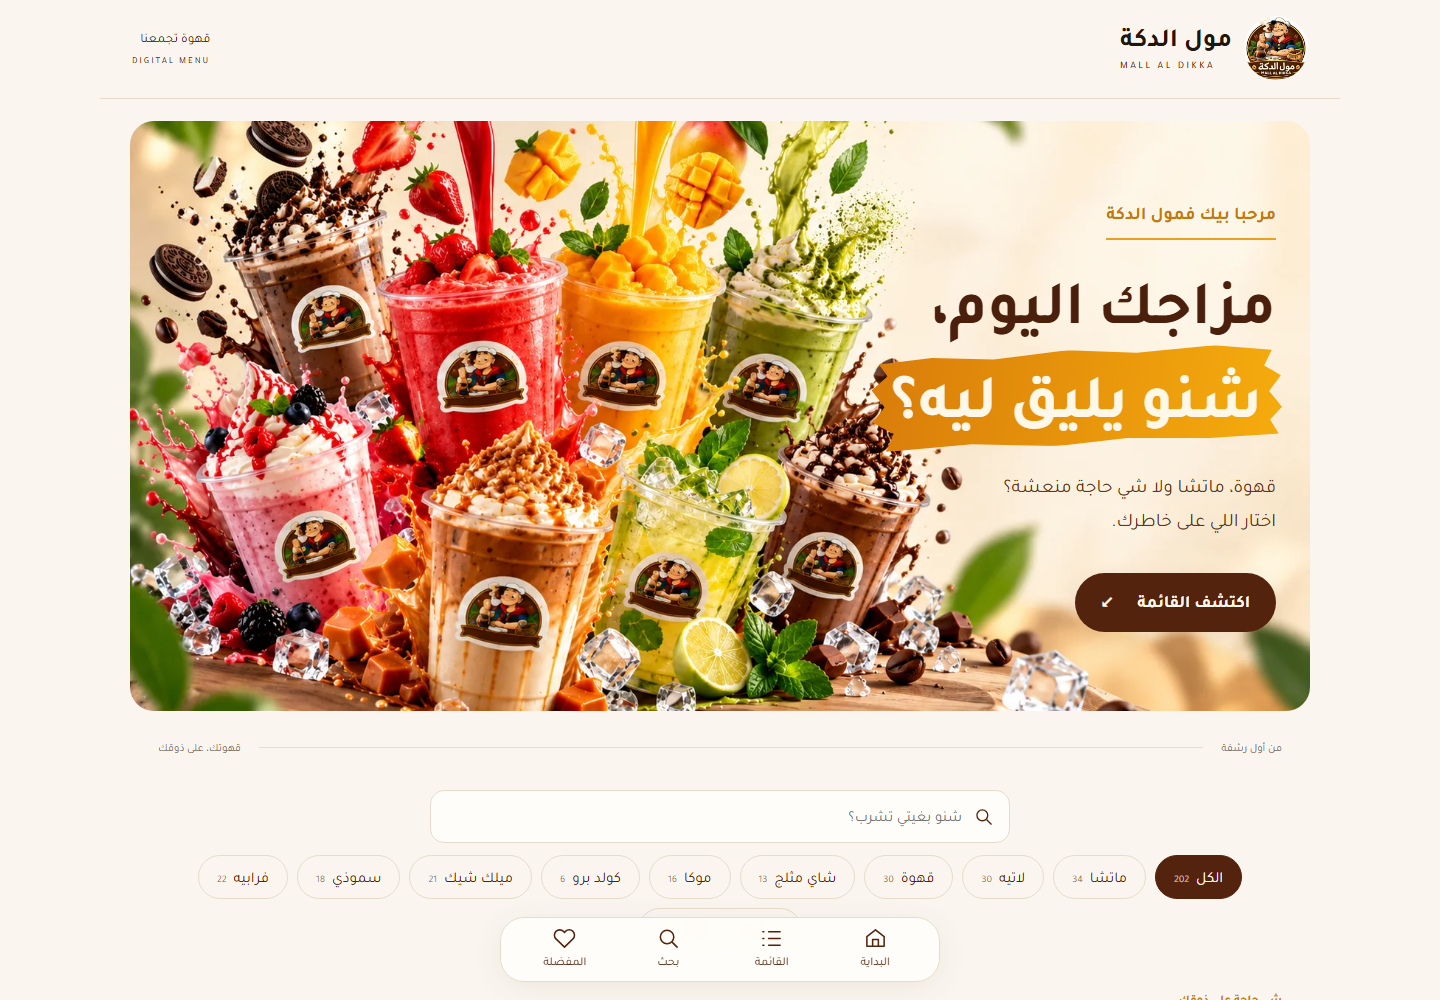
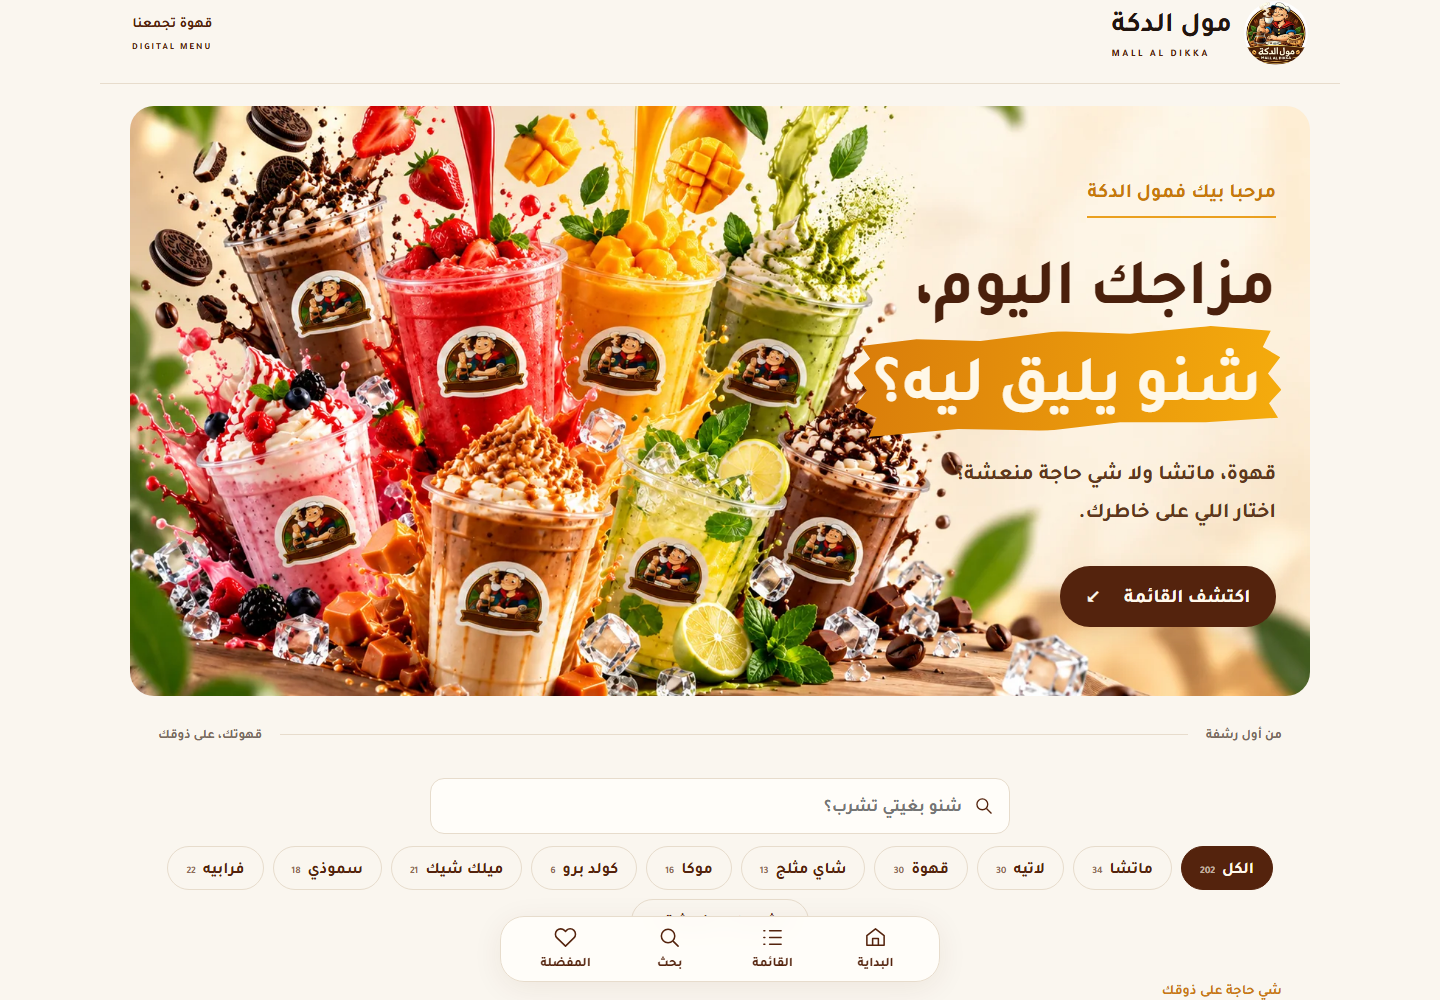
gras texte

diff --git a/css/style.css b/css/style.css
@@ -41,3 +41,20 @@ html{scroll-padding-top:130px}.header{padding:12px 16px;min-height:76px}.brand{g
 .welcome-flavors .explore{padding:16px 26px;min-height:56px;font-size:17px;font-weight:700;gap:24px;background:#54230d;box-shadow:0 8px 22px #54230d18}
 @media(max-width:850px) and (min-width:601px){.welcome-flavors{min-height:460px;margin-inline:-28px;padding:28px 22px}.welcome-flavors .welcome-copy{width:41%}.welcome-flavors h1{font-size:38px}.welcome-flavors p{font-size:16px}.welcome-flavors .eyebrow{font-size:15px}}
 @media(max-width:600px){.welcome-flavors{display:block;min-height:650px;margin:12px -14px 22px;padding:28px 20px 340px;border-radius:18px;background-image:linear-gradient(to bottom,#fff3df 0%,#fff3df 42%,transparent 57%),url('../assets/generated/hero-flavors-mobile.webp');background-size:100% 100%,auto 360px;background-position:center,left bottom;background-repeat:no-repeat}.welcome-flavors .welcome-copy{width:100%;padding:0;text-align:center}.welcome-flavors .eyebrow{font-size:14px;padding-bottom:7px}.welcome-flavors h1{font-size:clamp(35px,10vw,45px);line-height:1.16;margin:16px 0;letter-spacing:-.8px}.welcome-flavors h1 em{padding:8px 16px;margin-top:6px}.welcome-flavors p{font-size:15px;line-height:1.7;margin:17px 0 12px}.welcome-flavors .explore{font-size:14px;padding:12px 22px;min-height:46px;margin-top:0}}
+
+/* Stronger, more legible Arabic typography across the menu. */
+body{font-weight:700}
+.header-note{font-size:14px}.brand strong{font-size:28px}
+.eyebrow{font-size:14px}.intro-line{font-size:13px}
+input{font-size:17px;font-weight:700}.chip{font-size:16px;font-weight:700}
+.section-heading h2{font-size:33px}.section-heading #count{font-size:14px}
+.card-category{font-size:13px}.card-action{font-size:13px}
+.bottom-nav a,.bottom-nav button{font-size:13px;font-weight:700}
+.detail-copy h3{font-size:17px}.favorite{font-size:15px;font-weight:700}
+.ingredients li,.muted,.order-status,.poster-link{font-size:14px}
+.drink-description{font-size:18px}.drink-fact{font-size:16px}
+footer p{font-size:15px}.empty p{font-size:17px}
+.welcome-flavors .eyebrow{font-size:20px}.welcome-flavors p{font-size:21px;font-weight:700}
+.welcome-flavors .explore{font-size:19px}.welcome-flavors h1{font-size:clamp(38px,4.5vw,66px)}
+@media(max-width:850px) and (min-width:601px){.welcome-flavors h1{font-size:39px}.welcome-flavors p{font-size:18px}.welcome-flavors .eyebrow{font-size:17px}}
+@media(max-width:600px){.brand strong{font-size:26px}.header-note{font-size:12px}.chip{font-size:15px}.section-heading .eyebrow{font-size:12px}.section-heading h2{font-size:28px}.section-heading #count{font-size:12px}.card-category{font-size:12px}.card-action{font-size:12px}.welcome-flavors .eyebrow{font-size:16px}.welcome-flavors h1{font-size:clamp(35px,10.5vw,47px)}.welcome-flavors p{font-size:17px}.welcome-flavors .explore{font-size:16px}.empty p{font-size:16px}}
